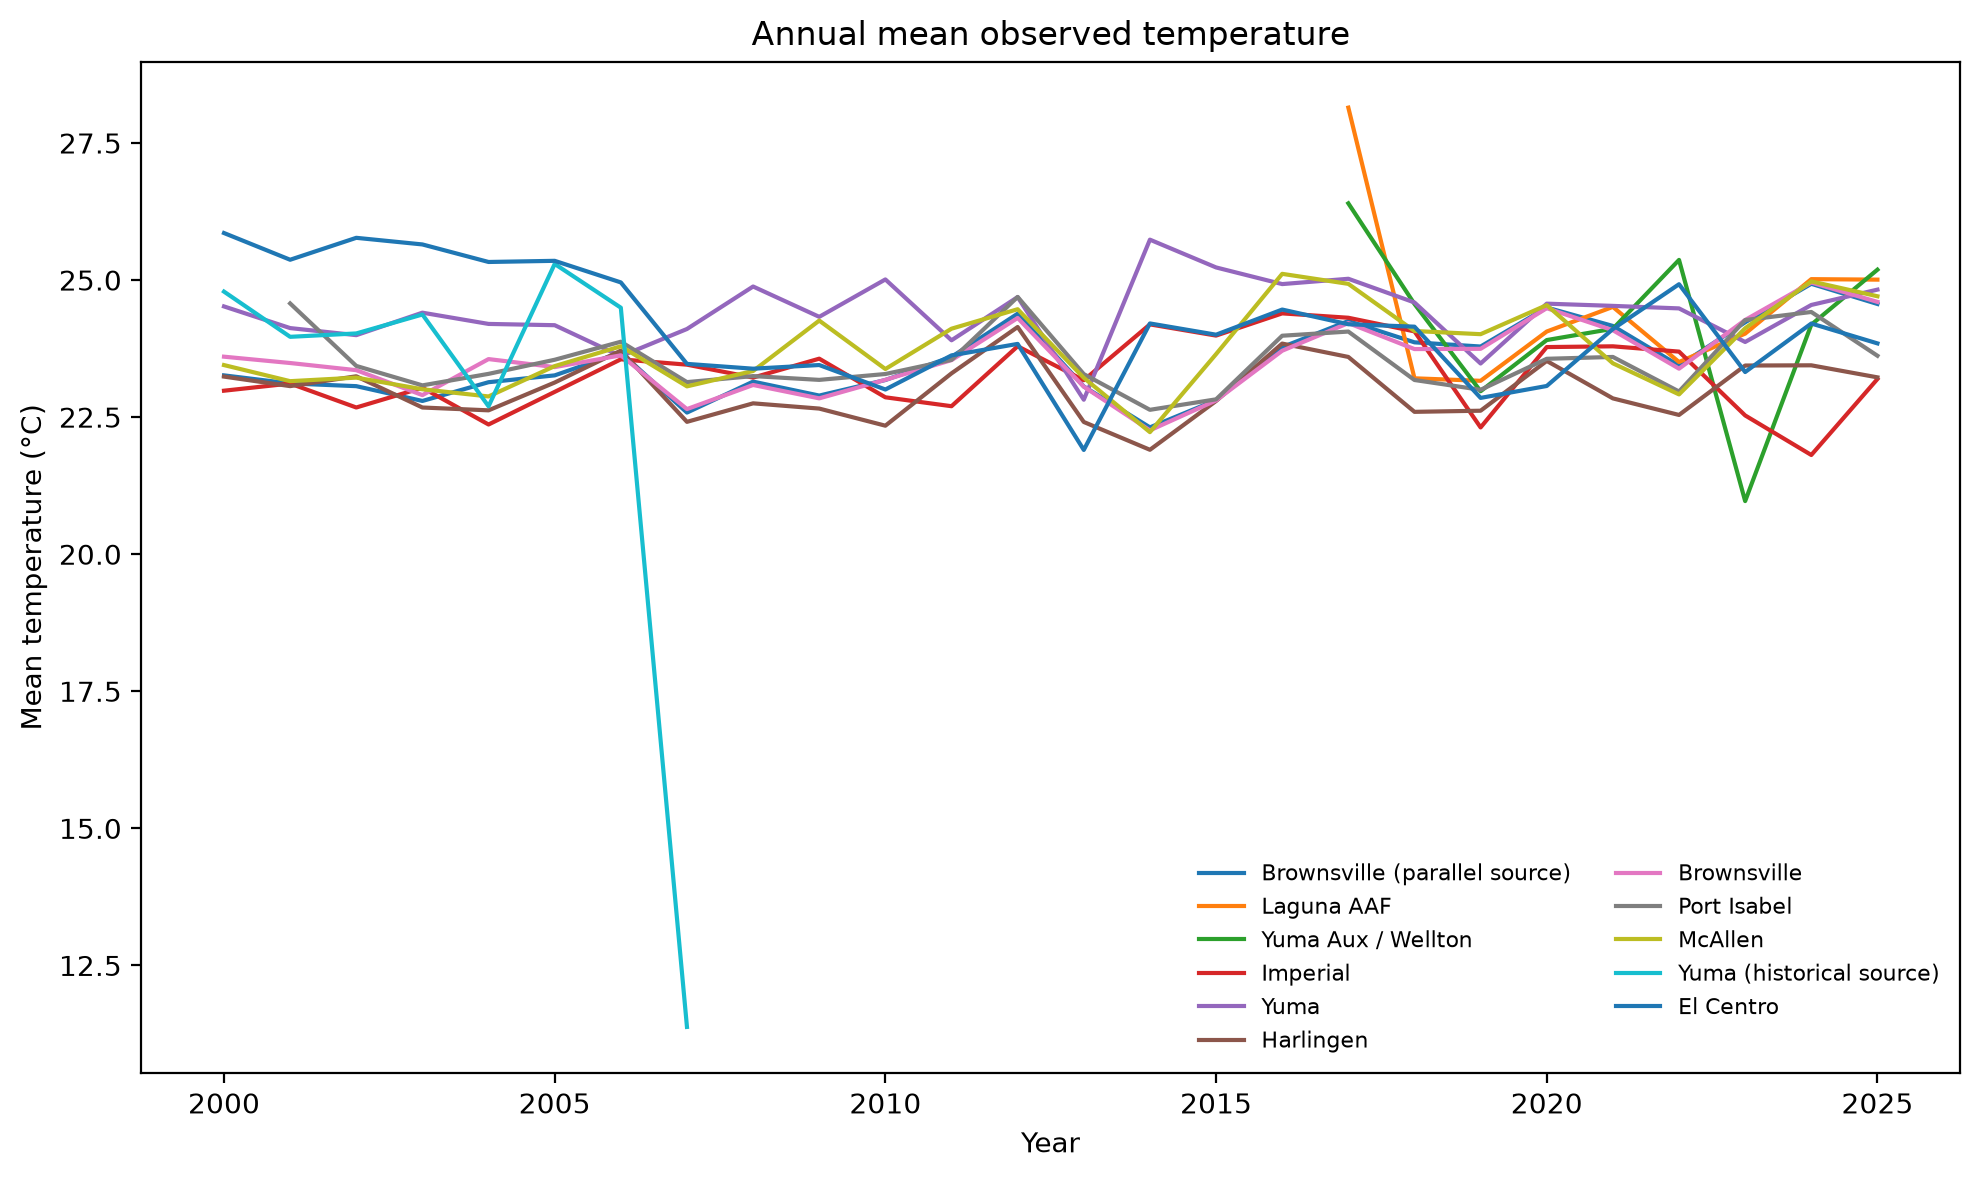
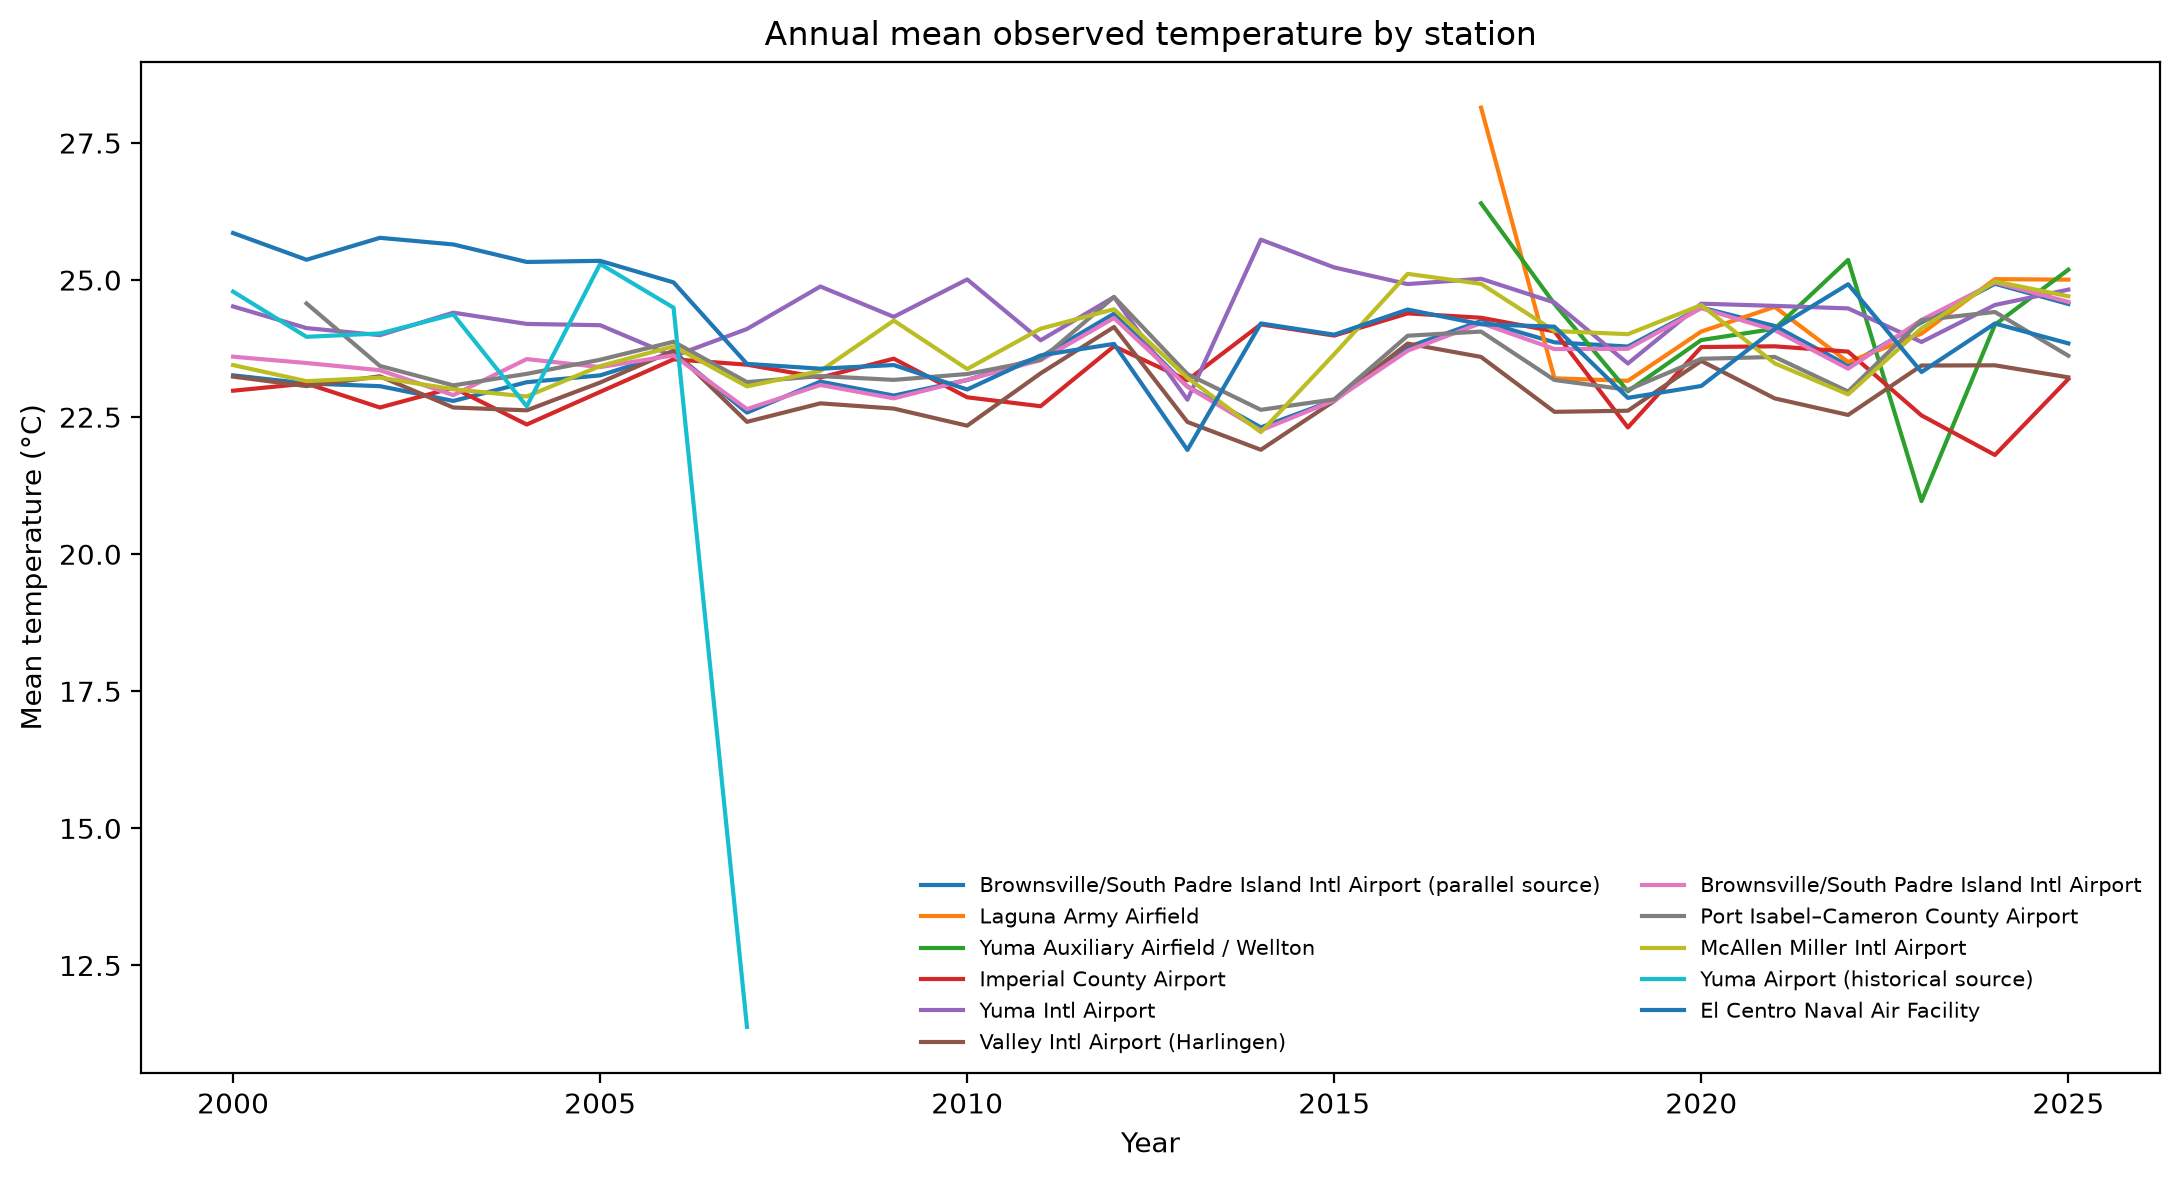
improve weather visualizations and station labels

diff --git a/src/border_weather/visualizations.py b/src/border_weather/visualizations.py
@@ -15,19 +15,24 @@ HOURLY_PATH = Path(
     "releases/border-weather-v0.1/hourly.parquet"
 )
 
+
 STATION_LABELS = {
-    "USW00012959": "McAllen",
-    "USW00012919": "Brownsville",
-    "USI0000KBRO": "Brownsville (parallel source)",
-    "USW00012904": "Harlingen",
-    "USW00012957": "Port Isabel",
-    "USW00003145": "Yuma",
-    "USW00023195": "Yuma (historical source)",
-    "USI0000KLGF": "Laguna AAF",
-    "USI0000KNOZ": "Yuma Aux / Wellton",
-    "USW00003144": "Imperial",
-    "USW00023199": "El Centro",
+    "USW00012959": "McAllen Miller Intl Airport",
+    "USW00012919": "Brownsville/South Padre Island Intl Airport",
+    "USI0000KBRO": (
+        "Brownsville/South Padre Island Intl Airport "
+        "(parallel source)"
+    ),
+    "USW00012904": "Valley Intl Airport (Harlingen)",
+    "USW00012957": "Port Isabel–Cameron County Airport",
+    "USW00003145": "Yuma Intl Airport",
+    "USW00023195": "Yuma Airport (historical source)",
+    "USI0000KLGF": "Laguna Army Airfield",
+    "USI0000KNOZ": "Yuma Auxiliary Airfield / Wellton",
+    "USW00003144": "Imperial County Airport",
+    "USW00023199": "El Centro Naval Air Facility",
 }
+
 
 VARIABLE_LABELS = {
     "temperature": "Temperature",
@@ -55,18 +60,28 @@ def coverage_over_time():
         errors="coerce",
     )
 
+    df["hourly_coverage_pct"] = pd.to_numeric(
+        df["hourly_coverage_pct"],
+        errors="coerce",
+    )
+
+    df["hours_with_observation"] = pd.to_numeric(
+        df["hours_with_observation"],
+        errors="coerce",
+    )
+
     df = df[
         df["year"].between(2000, 2026)
-    ]
+    ].copy()
 
-    plt.figure(figsize=(10, 6))
+    plt.figure(figsize=(11, 6))
 
     for station_id, group in df.groupby(
         "source_station_id"
     ):
         group = group.sort_values("year").copy()
 
-        # Missing station-years should appear as gaps,
+        # Years with no observations should appear as gaps,
         # not as artificial zero coverage.
         group.loc[
             group["hours_with_observation"] == 0,
@@ -86,11 +101,11 @@ def coverage_over_time():
 
     plt.xlabel("Year")
     plt.ylabel("Hourly coverage (%)")
-    plt.title("Temperature observation coverage")
+    plt.title("Temperature observation coverage by station")
     plt.ylim(0, 100)
 
     plt.legend(
-        fontsize=8,
+        fontsize=7.5,
         ncol=2,
         frameon=False,
     )
@@ -122,7 +137,9 @@ def annual_temperature():
         errors="coerce",
     )
 
-    df["year"] = df["hour_utc"].dt.year
+    df["year"] = (
+        df["hour_utc"].dt.year
+    )
 
     # Use complete years only.
     df = df[
@@ -144,7 +161,7 @@ def annual_temperature():
         & df["temperature_mean"].notna()
     ].copy()
 
-    # Weight hourly means by the number of
+    # Weight each hourly mean by the number of
     # underlying temperature reports in that hour.
     df["weighted_temperature"] = (
         df["temperature_mean"]
@@ -176,7 +193,7 @@ def annual_temperature():
         / annual["observation_count"]
     )
 
-    plt.figure(figsize=(10, 6))
+    plt.figure(figsize=(11, 6))
 
     for station_id, group in annual.groupby(
         "source_station_id"
@@ -196,12 +213,10 @@ def annual_temperature():
 
     plt.xlabel("Year")
     plt.ylabel("Mean temperature (°C)")
-    plt.title(
-        "Annual mean observed temperature"
-    )
+    plt.title("Annual mean observed temperature by station")
 
     plt.legend(
-        fontsize=8,
+        fontsize=7.5,
         ncol=2,
         frameon=False,
     )
@@ -233,6 +248,11 @@ def coverage_by_variable():
         )
     ].copy()
 
+    df["hourly_coverage_pct"] = pd.to_numeric(
+        df["hourly_coverage_pct"],
+        errors="coerce",
+    )
+
     summary = (
         df.groupby(
             "variable",
@@ -259,9 +279,7 @@ def coverage_by_variable():
 
     plt.xlabel("Mean hourly coverage (%)")
     plt.ylabel("")
-    plt.title(
-        "Average observation coverage by variable"
-    )
+    plt.title("Average observation coverage by variable")
     plt.xlim(0, 100)
 
     plt.tight_layout()
